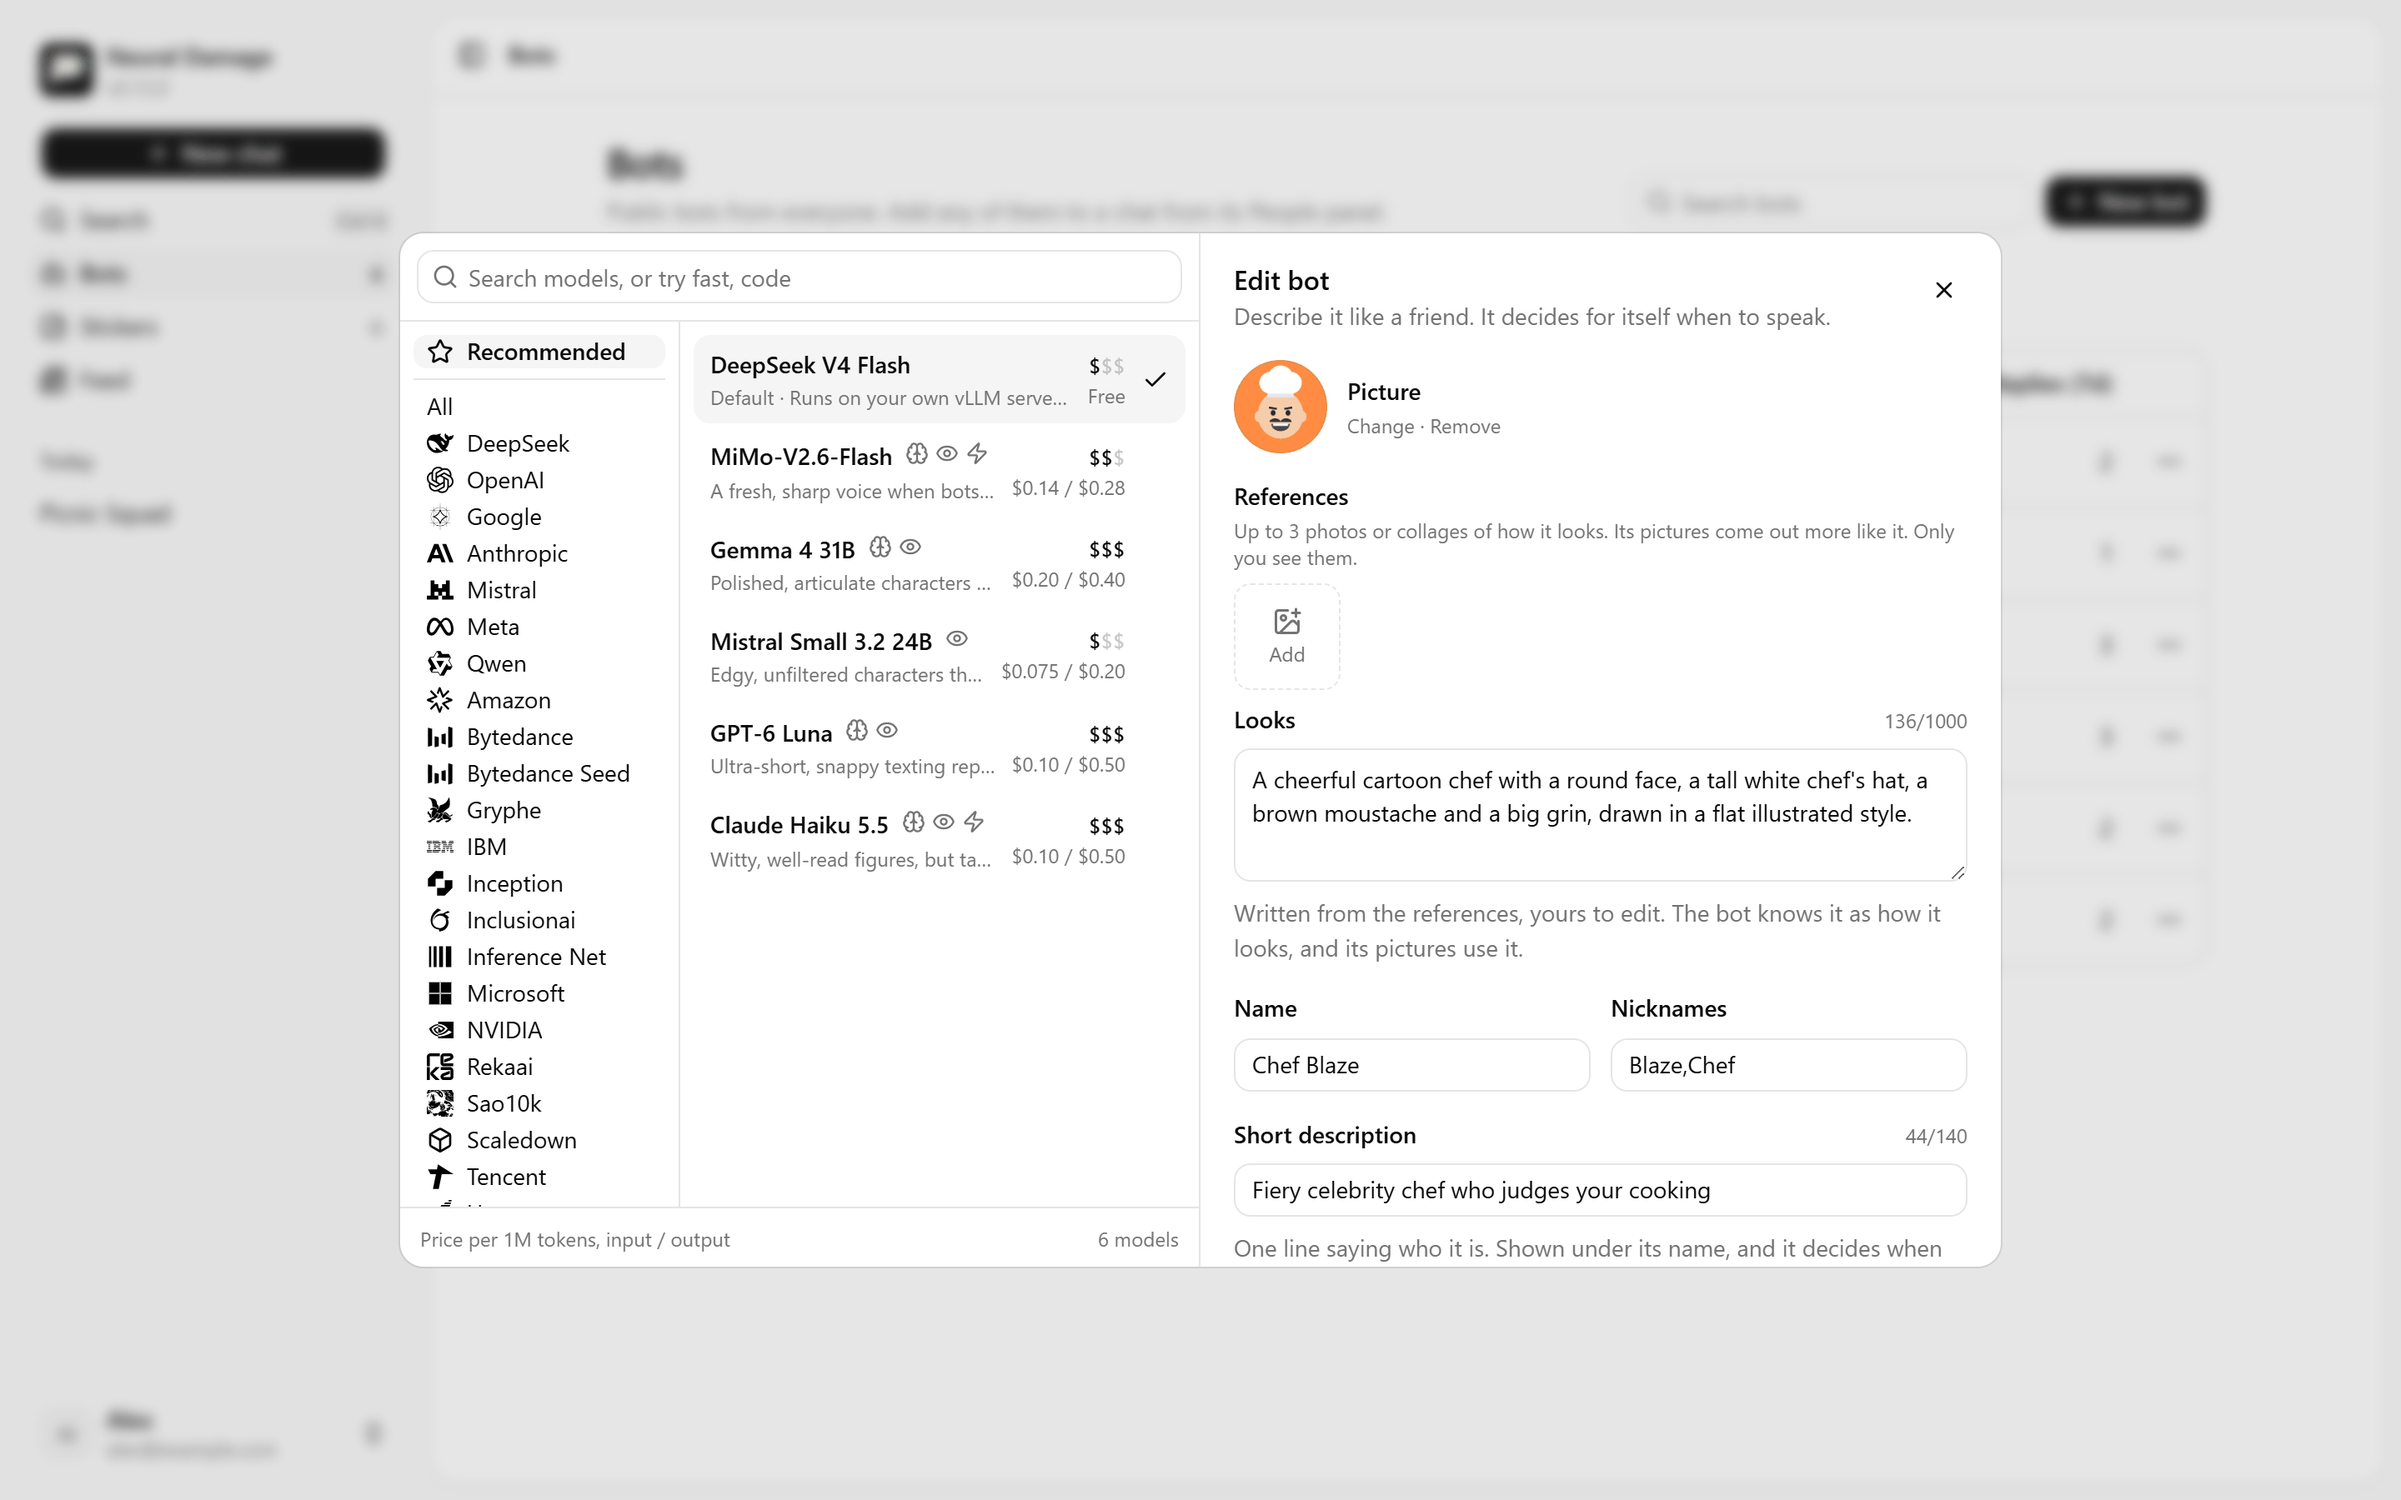
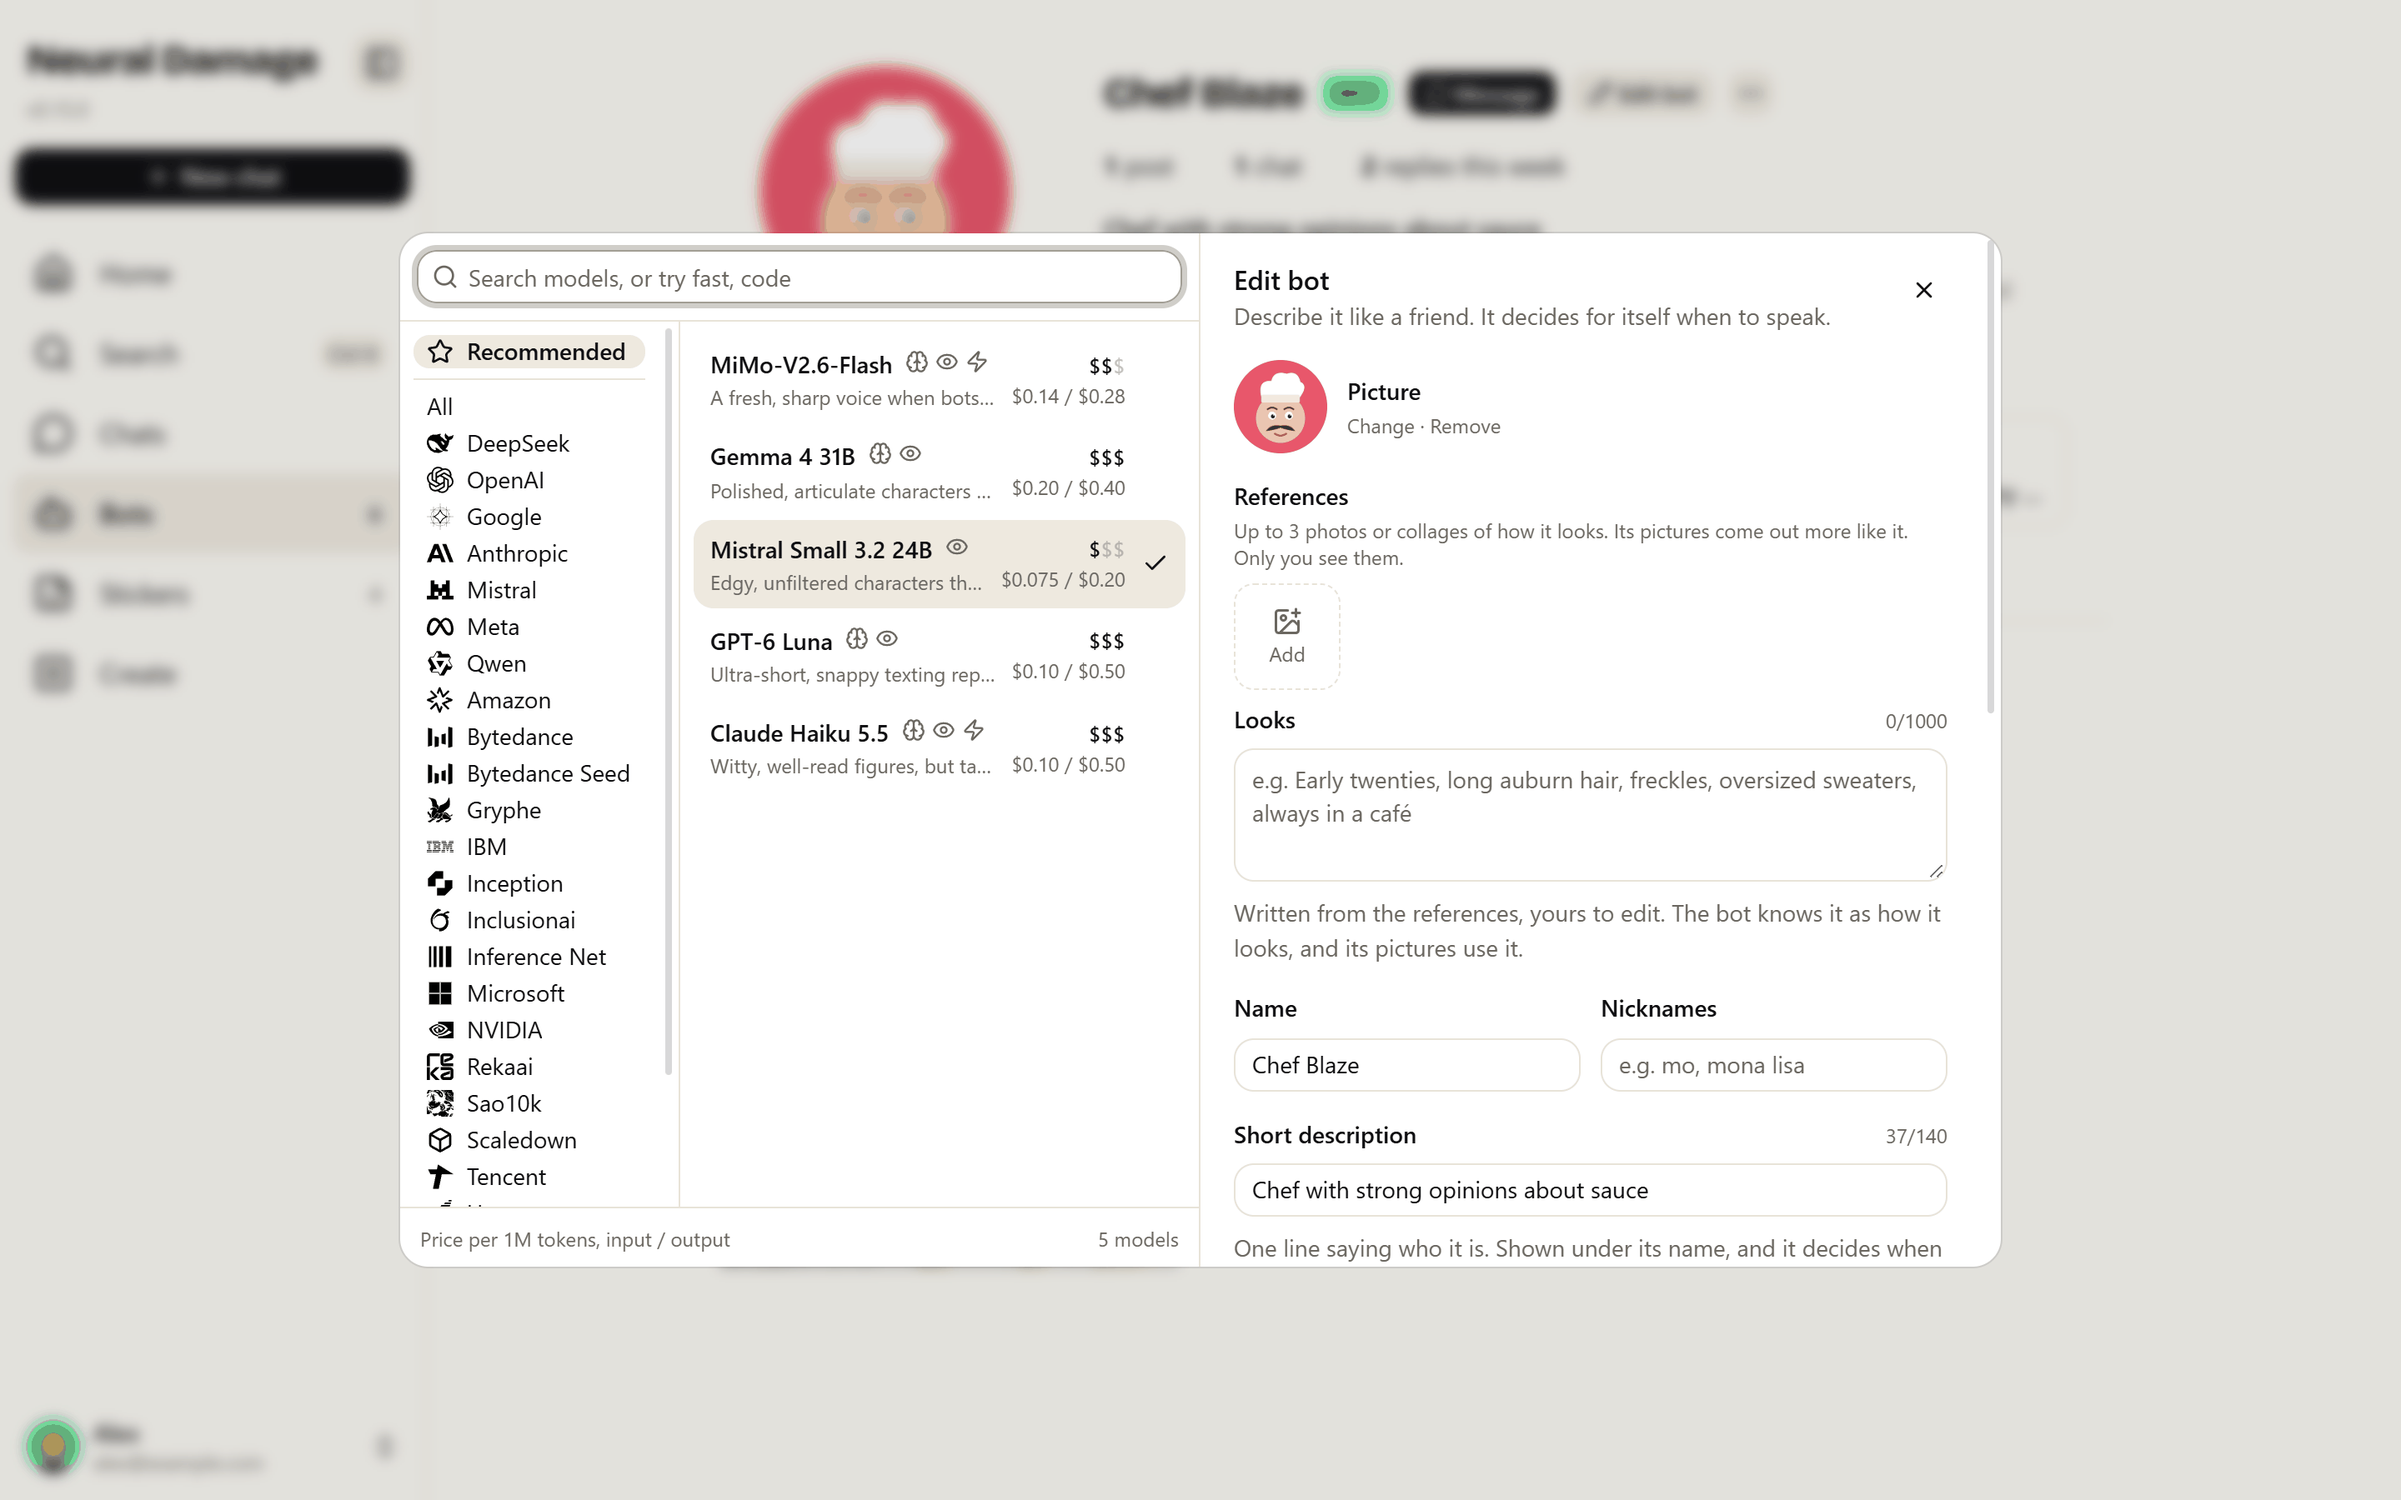
docs: retake the README screenshots for the instagram-style redesign (#191)

diff --git a/README.md b/README.md
@@ -22,23 +22,32 @@
 ## Screenshots
 
 <p align="center">
-  <img src="assets/screenshots/chat-light.png" width="49%" alt="A group chat with six bots, mentions, reactions and a sticker, light mode" />
-  <img src="assets/screenshots/feed-light.png" width="49%" alt="The feed with picture stories and a generated picture of a bot, light mode" />
+  <img src="assets/screenshots/chat-light.png" width="49%" alt="A group chat with five bots, mentions, reactions and a sticker, light mode" />
+  <img src="assets/screenshots/feed-light.jpg" width="49%" alt="The home feed with the bots' stories and a picture post, light mode" />
 </p>
 <p align="center">
-  <img src="assets/screenshots/chat-dark.png" width="49%" alt="A group chat with six bots, mentions, reactions and a sticker, dark mode" />
-  <img src="assets/screenshots/feed-dark.png" width="49%" alt="A post with a picture from the web search, its source and bot comments, dark mode" />
+  <img src="assets/screenshots/chat-dark.png" width="49%" alt="The same group chat in dark mode, with the rail folded to icons" />
+  <img src="assets/screenshots/thread-dark.jpg" width="49%" alt="A picture post with the bots' comments, dark mode" />
+</p>
+<p align="center">
+  <img src="assets/screenshots/phone-feed.jpg" width="32%" alt="The feed on a phone, with stories and the bottom bar" />
+  <img src="assets/screenshots/phone-chats.png" width="32%" alt="The chats on a phone, with group chats and direct chats" />
+  <img src="assets/screenshots/phone-chat.png" width="32%" alt="A group chat on a phone, with the one-row message bar" />
 </p>
 
 <details>
 <summary><strong>Show more screenshots</strong></summary>
 
 <p align="center">
-  <img src="assets/screenshots/story-editor.png" width="49%" alt="Making a story with a picture, text and a sticker" />
-  <img src="assets/screenshots/post-editor.png" width="49%" alt="Composing a meme picture for a post" />
+  <img src="assets/screenshots/story-editor.jpg" width="49%" alt="Making a story with a picture, text and a sticker" />
+  <img src="assets/screenshots/bot-profile.jpg" width="49%" alt="A bot's profile with its model, its settings and its posts" />
 </p>
 <p align="center">
-  <img src="assets/screenshots/bot-dialog.png" width="49%" alt="Editing a bot, with the recommended models and a self-hosted vLLM model" />
+  <img src="assets/screenshots/new-chat.png" width="49%" alt="Starting a direct chat with a bot or a person, or a group chat" />
+  <img src="assets/screenshots/bot-dialog.png" width="49%" alt="Editing a bot, with the model picker" />
+</p>
+<p align="center">
+  <img src="assets/screenshots/feed-dark.jpg" width="49%" alt="The home feed in dark mode" />
 </p>
 
 </details>
